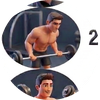
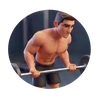
Replace exercise images with provided PNGs, fix duplicate card bug
- Used 12 ready-made PNG files (1-6 for A, 7-12 for B)
- Applied circular crop at 100x100px
- Fixed initWorkoutTab listener duplication on re-login

diff --git a/templates/index.html b/templates/index.html
@@ -616,15 +616,22 @@ async function loadExercisesData() {
 }
 
 /* ── Workout Tab ─────────────────────────────────────── */
+let _workoutTabInited = false;
 function initWorkoutTab() {
   const dateInput = document.getElementById('date-input');
   dateInput.value = today();
   dateInput.max = today();
 
-  dateInput.addEventListener('change', onDateOrTypeChange);
-  document.getElementById('pill-a').addEventListener('click', () => selectType('A'));
-  document.getElementById('pill-b').addEventListener('click', () => selectType('B'));
+  // Добавляем listeners только один раз — чтобы не накапливались при повторном входе
+  if (!_workoutTabInited) {
+    dateInput.addEventListener('change', onDateOrTypeChange);
+    document.getElementById('pill-a').addEventListener('click', () => selectType('A'));
+    document.getElementById('pill-b').addEventListener('click', () => selectType('B'));
+    _workoutTabInited = true;
+  }
 
+  S.sessionId = null;
+  S.saved.clear();
   suggestAndLoad();
 }
 
